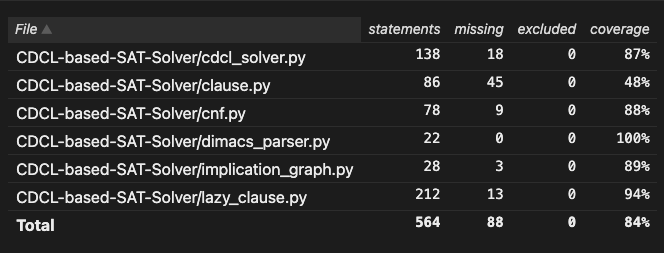
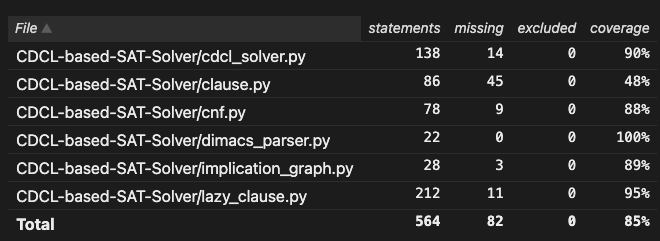
Add more integration tests and update coverage analysis results

diff --git a/tests/integration/test_integration.py b/tests/integration/test_integration.py
@@ -25,13 +25,6 @@ def test_unsat():
     print(f"File {file_path} solved with result: {result}")
     assert result==-1,f"File {file_path} expected SAT, got {result}"
 
-# def test_empty_clause():
-#     file_path = "empty_clause.cnf"
-#     solver = CDCL_Solver(file_path,verbose=True)
-#     result = solver.solve()()
-#     print(f"File {file_path} solved with result: {result}")
-#     assert result==-1,f"File {file_path} expected SAT, got {result}"
-
 def test_empty_formula():
     file_path = os.path.join(cnf_folder, "empty_formula.cnf")
     solver = CDCL_Solver(file_path,verbose=True)
@@ -52,3 +45,38 @@ def test_one_var_unsat():
     result = solver.solve()()
     print(f"File {file_path} solved with result: {result}")
     assert result==-1,f"File {file_path} expected SAT, got {result}"
+
+def test_large_unsat():
+    file_path = os.path.join(cnf_folder, "large_unsat.cnf")
+    solver = CDCL_Solver(file_path,verbose=True)
+    result = solver.solve()()
+    print(f"File {file_path} solved with result: {result}")
+    assert result==-1,f"File {file_path} expected SAT, got {result}"
+
+def test_all_negative():
+    file_path = os.path.join(cnf_folder, "all_negative.cnf")
+    solver = CDCL_Solver(file_path,verbose=True)
+    result = solver.solve()()
+    print(f"File {file_path} solved with result: {result}")
+    assert result==1,f"File {file_path} expected SAT, got {result}"
+
+def test_all_positive():
+    file_path = os.path.join(cnf_folder, "all_positive.cnf")
+    solver = CDCL_Solver(file_path,verbose=True)
+    result = solver.solve()()
+    print(f"File {file_path} solved with result: {result}")
+    assert result==1,f"File {file_path} expected SAT, got {result}"
+
+def test_chain_implications():
+    file_path = os.path.join(cnf_folder, "chain_implications.cnf")
+    solver = CDCL_Solver(file_path,verbose=True)
+    result = solver.solve()()
+    print(f"File {file_path} solved with result: {result}")
+    assert result==1,f"File {file_path} expected SAT, got {result}"
+
+def test_unit_clause_sat():
+    file_path = os.path.join(cnf_folder, "unit_clause_sat.cnf")
+    solver = CDCL_Solver(file_path,verbose=True)
+    result = solver.solve()()
+    print(f"File {file_path} solved with result: {result}")
+    assert result==1,f"File {file_path} expected SAT, got {result}"

diff --git a/ProjectAnalysisReport.md b/ProjectAnalysisReport.md
@@ -15,34 +15,32 @@ Svaki test proverava da li je data formula zadovoljiva (SAT) ili nezadovoljiva (
 
 Test primeri u folderu `/all_sat` preuzeti su sa sajta:  
 https://www.cs.ubc.ca/~hoos/SATLIB/benchm.html
+Test primer `large_unsat.cnf` preuzet je sa sajta: https://people.sc.fsu.edu/~jburkardt/data/cnf/aim-100-1_6-no-1.cnf
 
 Integracionim testovima pokriveni su sledeći slučajevi:
-TODO DODATI JOS TESTOVA
 - Obične zadovoljive formule (SAT)
 - Obične nezadovoljive formule (UNSAT)
+- Velike zadovoljive formule
+- Velike nezadovoljive formule
 - Specijalni slučajevi:
   - Prazna formula
-  - Prazna klauza
-  - Formule sa jednom promenljivom
+  - Formula sa jednom promenljivom
+  - Formula gde su sve klauze jedinicne i pozitivne
+  - Formula gde su sve klauze jedinicne i negativne
+  - Lanac implikacija
 
 Pokretanje integracionih testova vrši se pomoću skripte `test_integration.py`, koja prolazi kroz sve test fajlove i pokreće solver nad njima.
 
-### Pokretanje testova
-
-Testovi se pokreću naredbom:
-
+Nakon pokretanja testova komandom:
 ```bash
-pytest tests/integration
+pytest tests/integration -v
 ```
-### Izlaz testova
+(opcija -v da bi ispis bio detaljniji)
 
-Nakon pokretanja testova, `pytest` prikazuje rezultate izvršavanja, uključujući:
+dobija se sledeći izlaz:
 
-- broj uspešno izvršenih testova,
-- eventualne greške,
-- vreme izvršavanja.
-
-Ovaj pristup omogućava jednostavnu reprodukciju testova i proveru funkcionalnosti kompletnog sistema.
+![Izlaz iz terminala nakon pokretanja integracionih testova](./images/integration_tests_output_verbose.png)
+Svih 10 testova je uspešno prošlo za 0.24 sekunde.
 
 ## Jedinično testiranje
 
@@ -74,13 +72,12 @@ Nakon pokretanja testova komandom:
 ```bash
 pytest tests/unit/test_clause.py -v
 ```
-(opcija -v da bi ispis bio detaljniji)
 
 dobija se sledeći izlaz:
 
 ![Izlaz iz terminala nakon pokretanja unit testova za klasu Clause](./images/test_clause_verbose.png)
 
-Svih 28 testova je uspešno prošlo.
+Svih 28 testova je uspešno prošlo za 0.02 sekunde.
 
 ### Klasa `Implication_Graph`
 Klasa `Implication_Graph` predstavlja graf implikacija koji se gradi tokom pretrage i koristi se za analizu konflikata i backtracking u CDCL algoritmu. Za svaki dodeljeni literal pamti se antecedent (klauza koja je uzrokovala dodelu) i nivo odluke na kom je literal dodeljen.
@@ -92,7 +89,7 @@ Testovima su pokriveni sledeći aspekti:
 - Provera da uklanjanje jednog čvora ne utiče na ostale čvorove u grafu
 - Backtracking na zadati nivo odluke (`backtrack`) - uklanjanje svih literala dodeljenih na višem nivou, uz zadržavanje onih na nižem
 - Backtracking nad praznim grafom i višestruki backtracking
-- Dohvatanje prethodnika postojećeg i nepostojećeg literala (`get_antecedent`), uključujući slučaj kružnih referenci između čvorova (todo msm da nije potrebno to kruzno po specifikaciji?)
+- Dohvatanje prethodnika postojećeg i nepostojećeg literala (`get_antecedent`), uključujući slučaj kružnih referenci između čvorova
 
 Nakon pokretanja testova komandom:
 ```bash
@@ -103,7 +100,7 @@ dobija se sledeći izlaz:
 
 ![Izlaz iz terminala nakon pokretanja unit testova za klasu Implication_Graph](./images/test_implication_graph_verbose.png)
 
-Svih 14 testova je uspešno prošlo.
+Svih 14 testova je uspešno prošlo za 0.02 sekunde.
 
 ## Pokrivenost koda - Coverage.py
 Pokrivenost koda testovima merena je alatom **Coverage.py**, koji prati (po defaultu) koje linije koda su izvršene tokom testiranja.
@@ -147,7 +144,7 @@ Za razliku od jediničnih testova koji mere pokrivenost pojedinačnih klasa, int
 
 ![Izveštaj pokrivenosti za integracione testove](./images/integration_coverage.png)
 
-Ukupna pokrivenost iznosi **84%**. Najniža pokrivenost je kod `clause.py` sa svega 48%. Pokrivenost ostalih komponenti je prilično visoka.
+Ukupna pokrivenost iznosi **85%**. Najniža pokrivenost je kod `clause.py` sa svega 48%. Pokrivenost ostalih komponenti je prilično visoka.
 
 ### Ukupna pokrivenost
 
@@ -158,9 +155,9 @@ pytest tests/ --cov=cdcl_solver --cov=clause --cov=cnf --cov=dimacs_parser --cov
 
 ![Ukupna pokrivenost](./images/total_coverage.png)
 
-Ukupna pokrivenost iznosi **92%**. Kombinovanjem jediničnih i integracionih testova pokrivenost `clause.py` je porasla sa 48% na 97%, što potvrđuje da se jedinični i integracioni testovi međusobno dopunjuju. Jedini fajl sa nešto nižom pokrivenošću je `cdcl_solver.py` (87%), što je i dalje dobar rezultat uzimajući u obzir da je ovo najkompleksniji fajl u projektu. 
+Ukupna pokrivenost iznosi **93%**. Kombinovanjem jediničnih i integracionih testova pokrivenost `clause.py` je porasla sa 48% na 97%, što potvrđuje da se jedinični i integracioni testovi međusobno dopunjuju.
 
-Ukupna pokrivenost od 92% predstavlja odličan rezultat i ukazuje da testovi dobro pokrivaju funkcionalnost projekta.
+Ukupna pokrivenost od 93% predstavlja odličan rezultat i ukazuje da testovi dobro pokrivaju funkcionalnost projekta.
 
 ## Statička analiza - Pylint
 Pylint je alat za statičku analizu Python koda koji proverava stil, kvalitet i potencijalne greške bez pokretanja programa.  Može se instalirati komandom:
